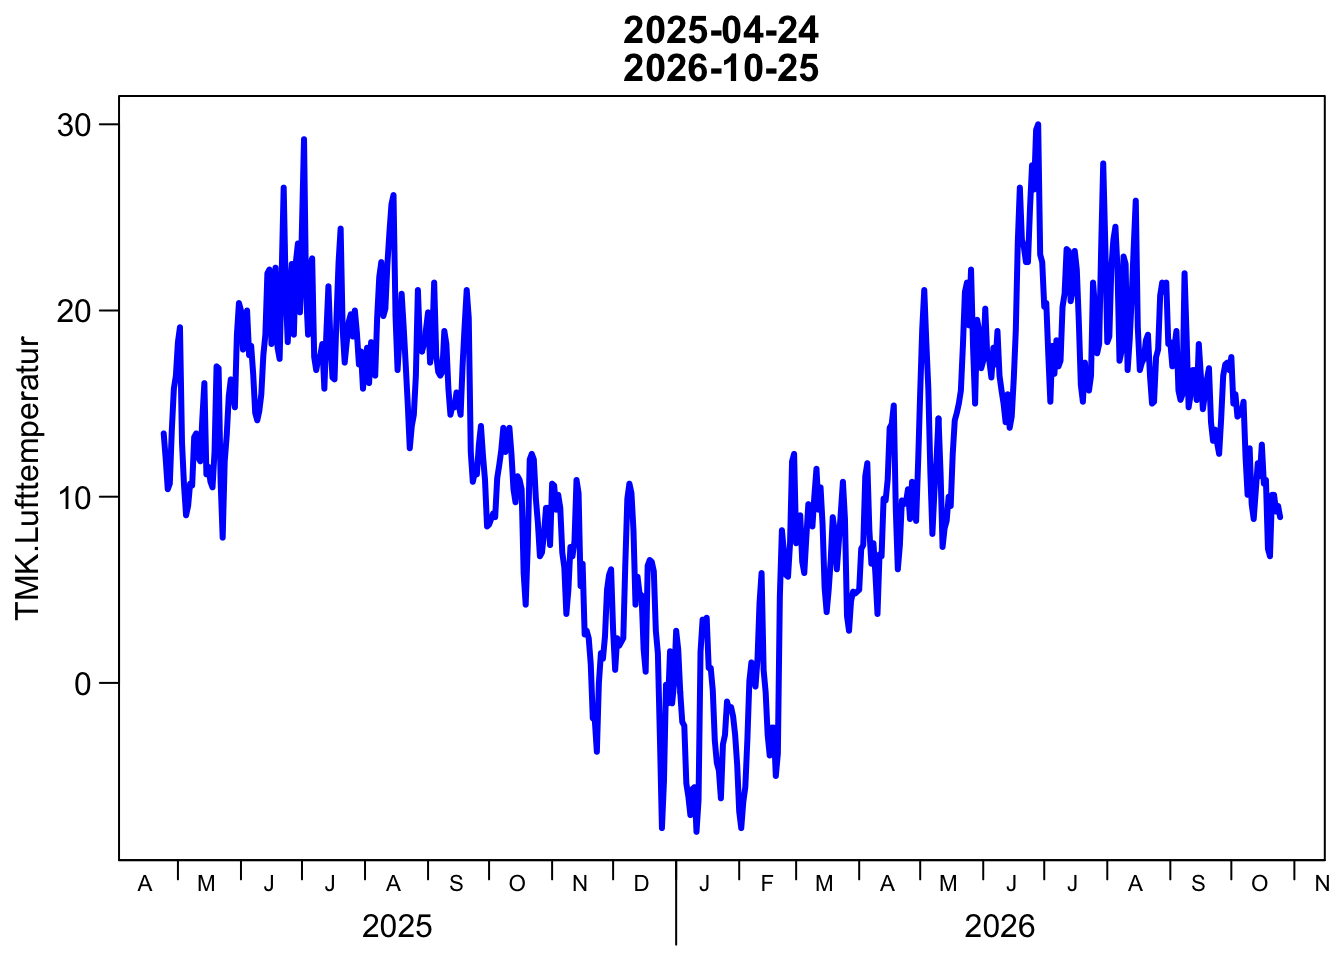
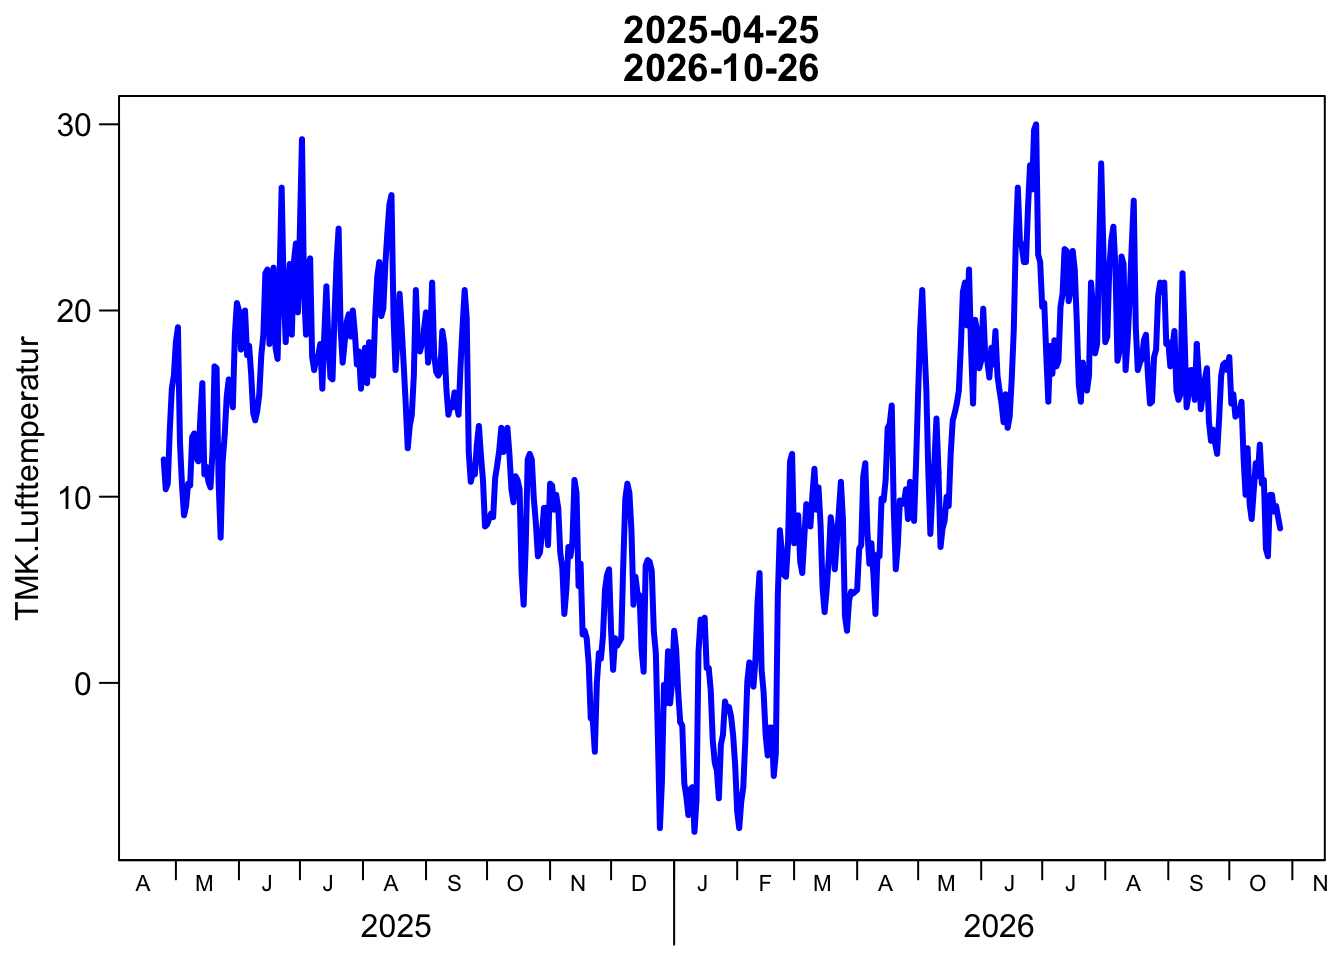
added fig information

diff --git a/index.html b/index.html
@@ -2,7 +2,7 @@
 <html xmlns="http://www.w3.org/1999/xhtml" lang="en" xml:lang="en"><head>
 
 <meta charset="utf-8">
-<meta name="generator" content="quarto-1.9.37">
+<meta name="generator" content="quarto-1.8.25">
 
 <meta name="viewport" content="width=device-width, initial-scale=1.0, user-scalable=yes">
 
@@ -10,9 +10,6 @@
 
 <title>Fundamentals of Programming 2026</title>
 <style>
-/* Default styles provided by pandoc.
-** See https://pandoc.org/MANUAL.html#variables-for-html for config info.
-*/
 code{white-space: pre-wrap;}
 span.smallcaps{font-variant: small-caps;}
 div.columns{display: flex; gap: min(4vw, 1.5em);}
@@ -65,14 +62,15 @@ pre > code.sourceCode > span > a:first-child::before { text-decoration: underlin
 <script src="index_files/libs/clipboard/clipboard.min.js"></script>
 <script src="index_files/libs/quarto-html/quarto.js" type="module"></script>
 <script src="index_files/libs/quarto-html/tabsets/tabsets.js" type="module"></script>
+<script src="index_files/libs/quarto-html/axe/axe-check.js" type="module"></script>
 <script src="index_files/libs/quarto-html/popper.min.js"></script>
 <script src="index_files/libs/quarto-html/tippy.umd.min.js"></script>
 <script src="index_files/libs/quarto-html/anchor.min.js"></script>
 <link href="index_files/libs/quarto-html/tippy.css" rel="stylesheet">
-<link href="index_files/libs/quarto-html/quarto-syntax-highlighting-7f8f88aac4f3542376d5c11b86a4c14d.css" rel="stylesheet" id="quarto-text-highlighting-styles">
+<link href="index_files/libs/quarto-html/quarto-syntax-highlighting-7b89279ff1a6dce999919e0e67d4d9ec.css" rel="stylesheet" id="quarto-text-highlighting-styles">
 <script src="index_files/libs/bootstrap/bootstrap.min.js"></script>
 <link href="index_files/libs/bootstrap/bootstrap-icons.css" rel="stylesheet">
-<link href="index_files/libs/bootstrap/bootstrap-138a6193a3bd40baf1e627da441a4734.min.css" rel="stylesheet" append-hash="true" id="quarto-bootstrap" data-mode="light">
+<link href="index_files/libs/bootstrap/bootstrap-d6a003b94517c951b2d65075d42fb01b.min.css" rel="stylesheet" append-hash="true" id="quarto-bootstrap" data-mode="light">
 
 
 </head>
@@ -115,7 +113,7 @@ pre > code.sourceCode > span > a:first-child::before { text-decoration: underlin
     <div>
     <div class="quarto-title-meta-heading">Published</div>
     <div class="quarto-title-meta-contents">
-      <p class="date">2026-10-26 15:22</p>
+      <p class="date">2026-10-27 11:20</p>
     </div>
   </div>
   
@@ -160,7 +158,7 @@ To learn more markdown, create a copy of the file (version at course start if wa
 <li><label><input type="checkbox" checked="">add a footnote somewhere in the text</label></li>
 <li><label><input type="checkbox">add an image (e.g.&nbsp;a screenshot or the DWD logo) with alt text</label></li>
 <li><label><input type="checkbox">set global execution options in the yaml (e.g.&nbsp;<code>warning: false</code>) instead of per-chunk</label></li>
-<li><label><input type="checkbox">add <code>fig-width</code> / <code>fig-height</code> as global defaults in the yaml</label></li>
+<li><label><input type="checkbox" checked="">add <code>fig-width</code> / <code>fig-height</code> as global defaults in the yaml</label></li>
 <li><label><input type="checkbox">add margin content with <code>column: margin</code> on a chunk or text block</label></li>
 </ul>
 <div class="callout callout-style-default callout-tip callout-titled">
@@ -266,8 +264,8 @@ To learn more markdown, create a copy of the file (version at course start if wa
 </details>
 <div class="cell-output cell-output-stdout">
 <pre><code>count    550.000000
-mean      12.379091
-std        7.710021
+mean      12.369818
+std        7.711858
 min       -8.000000
 25%        7.500000
 50%       13.700000
